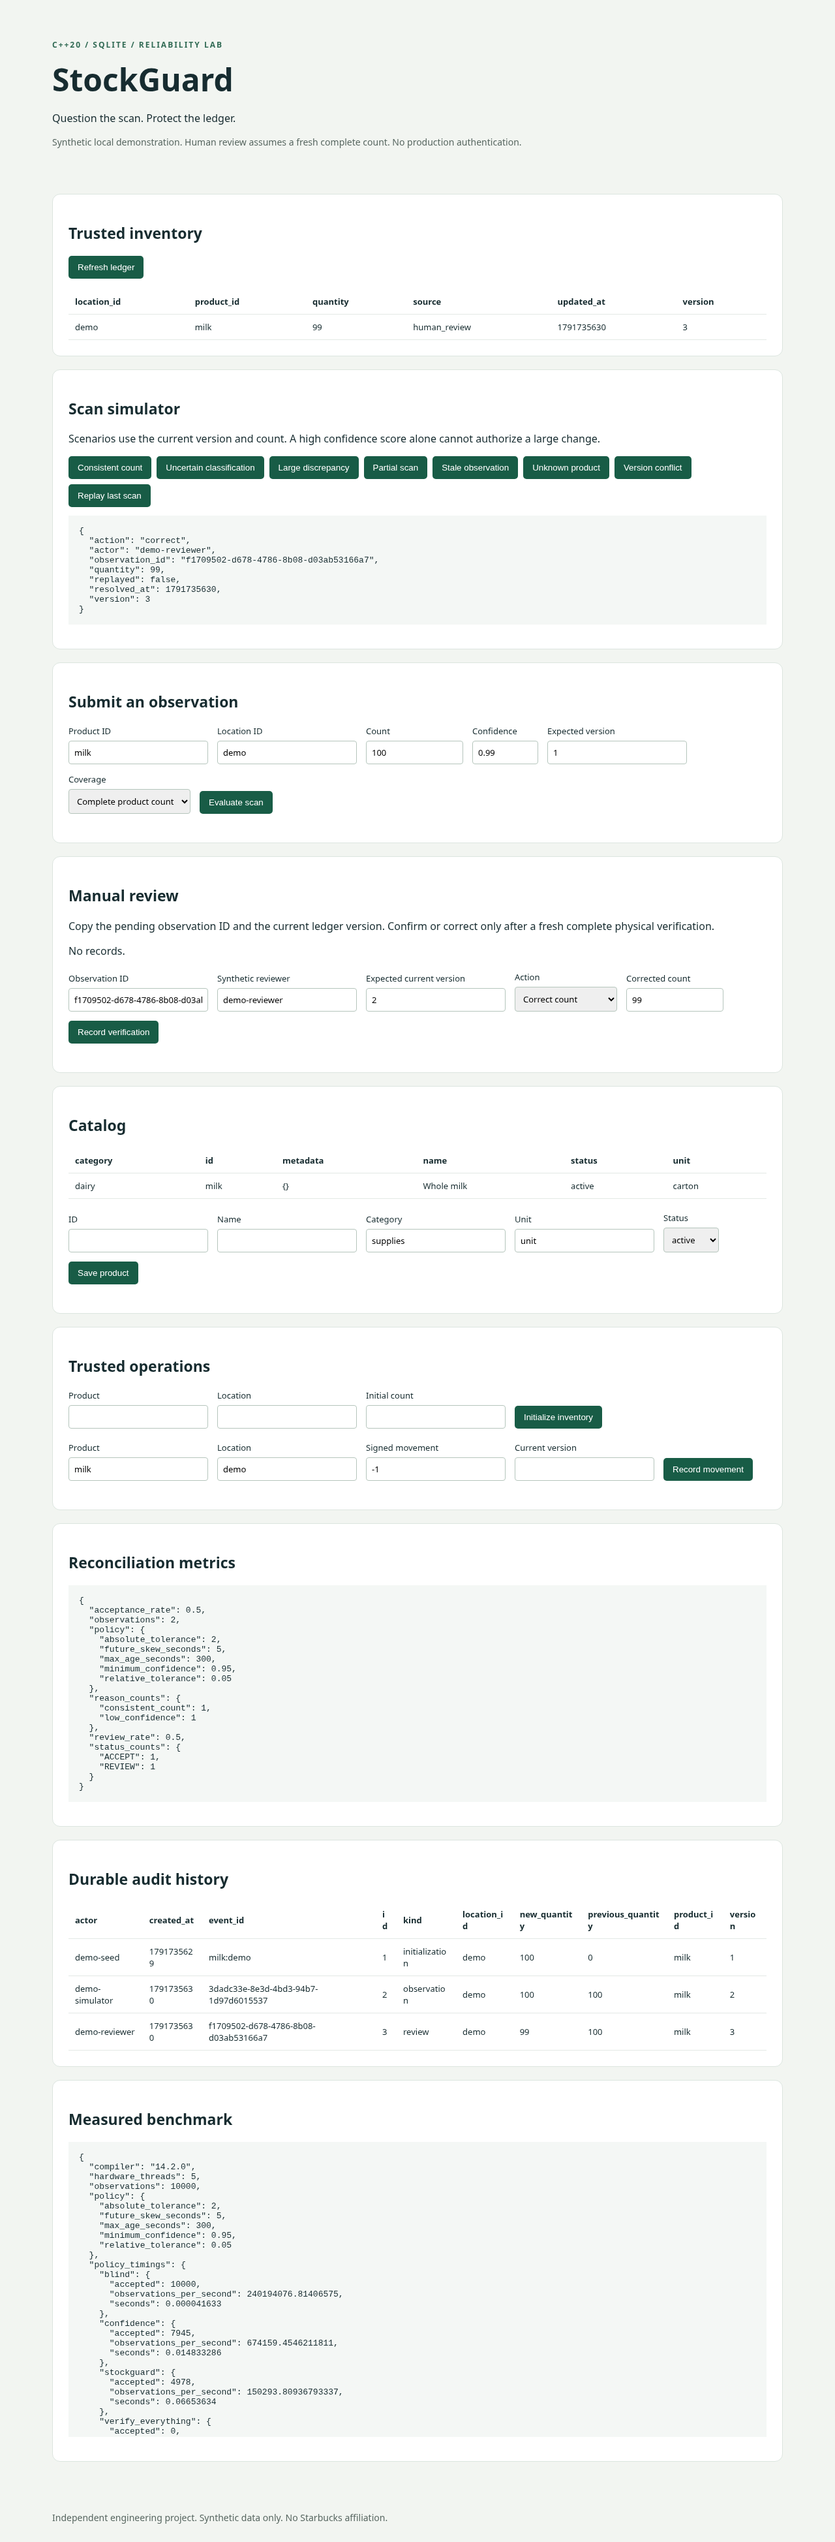
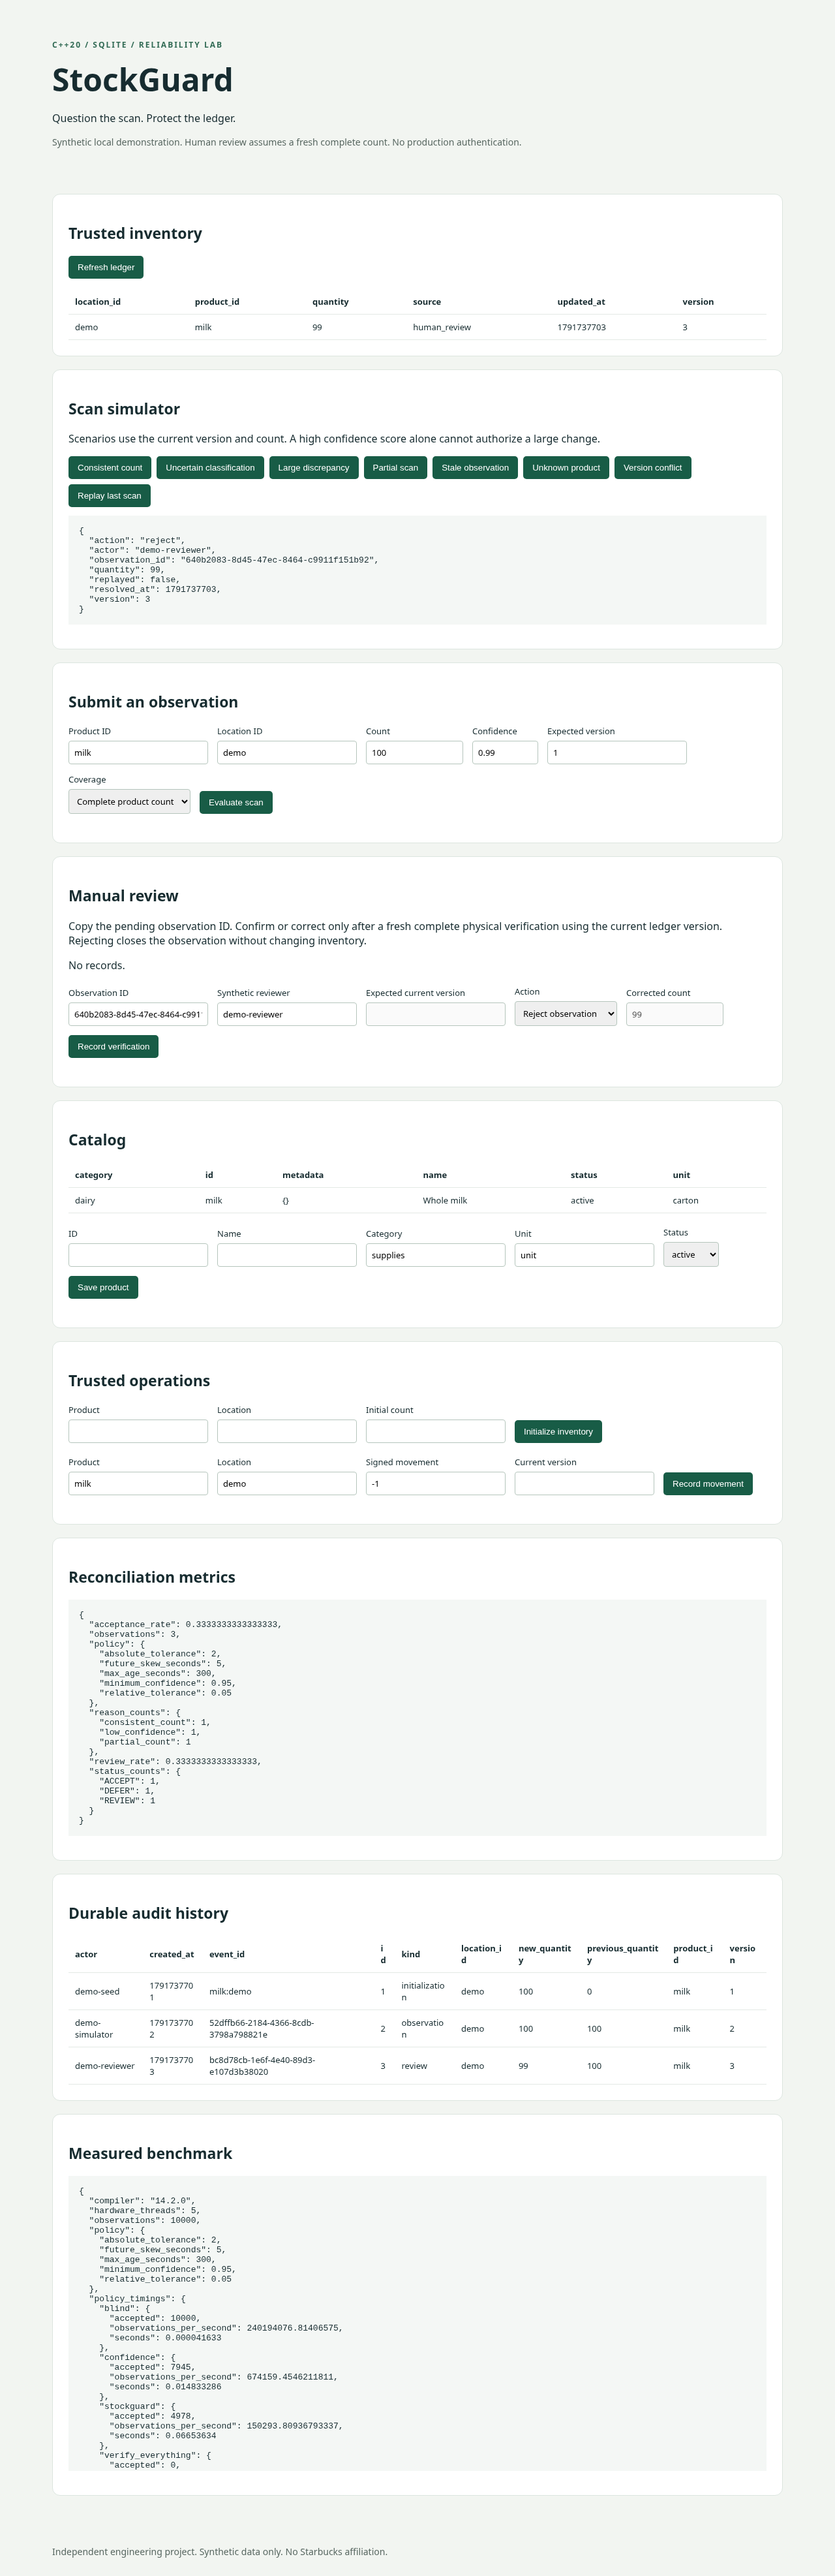
fix: allow pending evidence rejection without inventory prerequisites

diff --git a/dashboard/index.html b/dashboard/index.html
@@ -7,7 +7,7 @@
 <section><h2>Trusted inventory</h2><button id="refresh">Refresh ledger</button><div id="inventory"></div></section>
 <section><h2>Scan simulator</h2><p>Scenarios use the current version and count. A high confidence score alone cannot authorize a large change.</p><div class="actions"><button data-scenario="consistent">Consistent count</button><button data-scenario="low">Uncertain classification</button><button data-scenario="large">Large discrepancy</button><button data-scenario="partial">Partial scan</button><button data-scenario="stale">Stale observation</button><button data-scenario="missing">Unknown product</button><button data-scenario="version">Version conflict</button><button id="replay">Replay last scan</button></div><pre id="decision">Submit a scenario to inspect its decision and evidence.</pre></section>
 <section><h2>Submit an observation</h2><form id="scan"><label>Product ID<input name="product_id" value="milk" required></label><label>Location ID<input name="location_id" value="demo" required></label><label>Count<input name="quantity" type="number" min="0" max="1000000000" value="100" required></label><label>Confidence<input name="confidence" type="number" min="0" max="1" step="0.01" value="0.99" required></label><label>Expected version<input name="expected_version" type="number" min="1" value="1" required></label><label>Coverage<select name="complete"><option value="true">Complete product count</option><option value="false">Partial count</option></select></label><button>Evaluate scan</button></form></section>
-<section><h2>Manual review</h2><p>Copy the pending observation ID and the current ledger version. Confirm or correct only after a fresh complete physical verification.</p><div id="pending"></div><form id="review"><label>Observation ID<input name="observation_id" required></label><label>Synthetic reviewer<input name="actor" value="demo-reviewer" required></label><label>Expected current version<input name="expected_version" type="number" min="1" required></label><label>Action<select name="action"><option value="correct">Correct count</option><option value="confirm">Confirm scan count</option><option value="reject">Reject observation</option></select></label><label>Corrected count<input name="quantity" type="number" min="0" max="1000000000" value="100" required></label><button>Record verification</button></form></section>
+<section><h2>Manual review</h2><p>Copy the pending observation ID. Confirm or correct only after a fresh complete physical verification using the current ledger version. Rejecting closes the observation without changing inventory.</p><div id="pending"></div><form id="review"><label>Observation ID<input name="observation_id" required></label><label>Synthetic reviewer<input name="actor" value="demo-reviewer" required></label><label>Expected current version<input name="expected_version" type="number" min="1" required></label><label>Action<select name="action"><option value="correct">Correct count</option><option value="confirm">Confirm scan count</option><option value="reject">Reject observation</option></select></label><label>Corrected count<input name="quantity" type="number" min="0" max="1000000000" value="100" required></label><button>Record verification</button></form></section>
 <section><h2>Catalog</h2><div id="products"></div><form id="product"><label>ID<input name="id" required></label><label>Name<input name="name" required></label><label>Category<input name="category" value="supplies" required></label><label>Unit<input name="unit" value="unit" required></label><label>Status<select name="status"><option>active</option><option>inactive</option></select></label><button>Save product</button></form></section>
 <section><h2>Trusted operations</h2><form id="initialize"><label>Product<input name="product_id" required></label><label>Location<input name="location_id" required></label><label>Initial count<input name="quantity" type="number" min="0" required></label><button>Initialize inventory</button></form><form id="movement"><label>Product<input name="product_id" value="milk" required></label><label>Location<input name="location_id" value="demo" required></label><label>Signed movement<input name="delta" type="number" value="-1" required></label><label>Current version<input name="expected_version" type="number" min="1" required></label><button>Record movement</button></form></section>
 <section><h2>Reconciliation metrics</h2><pre id="metrics"></pre></section>

diff --git a/dashboard/app.js b/dashboard/app.js
@@ -53,6 +53,16 @@ document.querySelectorAll('[data-scenario]').forEach(button => {button.onclick =
   await ingest(o);
 });});
 byId('replay').onclick = () => run(async () => {if (!lastScan) throw new Error('Submit a scan first.'); await ingest(lastScan);});
+function updateReviewFields() {
+  const form = byId('review');
+  const modifiesInventory = form.elements.action.value !== 'reject';
+  form.elements.expected_version.disabled = !modifiesInventory;
+  form.elements.expected_version.required = modifiesInventory;
+  form.elements.quantity.disabled = form.elements.action.value !== 'correct';
+  form.elements.quantity.required = form.elements.action.value === 'correct';
+}
+byId('review').elements.action.onchange = updateReviewFields;
+updateReviewFields();
 for (const id of ['scan', 'review', 'product', 'initialize', 'movement']) {
   byId(id).onsubmit = event => {event.preventDefault(); run(async () => {
     const data = Object.fromEntries(new FormData(event.target));
@@ -62,7 +72,7 @@ for (const id of ['scan', 'review', 'product', 'initialize', 'movement']) {
       data.observed_at = now(); data.source = 'demo-manual'; await ingest(data);
     } else {
       data.op = id === 'product' ? 'product_put' : id;
-      if (id === 'review') data.verified_at = now();
+      if (id === 'review' && data.action !== 'reject') data.verified_at = now();
       if (id === 'initialize' || id === 'movement') data.actor = 'demo-operator';
       if (id === 'movement') data.id = unique();
       byId('decision').textContent = JSON.stringify(await api(data), null, 2);

diff --git a/tests/store_test.cpp b/tests/store_test.cpp
@@ -416,4 +416,69 @@ TEST_F(Persistence, CatalogUnitCannotReinterpretExistingInventory) {
     EXPECT_EQ(s.execute({{"op", "products"}, {"id", "milk"}})[0]["unit"], "carton");
     EXPECT_EQ(state(s)["quantity"], 100);
 }
+
+TEST_F(Persistence, DeferredWithoutInventoryCanBeRejectedAndReplayedAfterRestart) {
+    Json rejection = {
+        {"op", "review"}, {"observation_id", "o1"}, {"actor", "reviewer"}, {"action", "reject"}};
+    Json saved;
+    {
+        Store s(path, {}, now);
+        seed(s);
+        auto o = observation();
+        o["location_id"] = "uninitialized";
+        EXPECT_EQ(ingest(s, o)["reason"], "missing_inventory");
+        auto confirm = rejection;
+        confirm["action"] = "confirm";
+        confirm["expected_version"] = 1;
+        confirm["verified_at"] = 1000;
+        EXPECT_THROW(s.execute(confirm), Error);
+        saved = s.execute(rejection);
+        EXPECT_TRUE(saved["quantity"].is_null());
+        EXPECT_TRUE(saved["version"].is_null());
+        EXPECT_EQ(s.execute({{"op", "pending"}}).size(), 0);
+        EXPECT_EQ(s.execute({{"op", "audit"}}).size(), 1);
+    }
+    Store restarted(path, {}, now);
+    auto replay = restarted.execute(rejection);
+    EXPECT_EQ(replay["replayed"], true);
+    replay["replayed"] = false;
+    EXPECT_EQ(replay, saved);
+    EXPECT_EQ(restarted.execute({{"op", "reviews"}}).size(), 1);
+}
+TEST_F(Persistence, DeactivatedProductCanRejectPendingObservationWithoutChangingInventory) {
+    Store s(path, {}, now);
+    seed(s);
+    ingest(s, observation("o1", 160));
+    s.execute({{"op", "product_put"},
+               {"id", "milk"},
+               {"name", "Milk"},
+               {"category", "dairy"},
+               {"unit", "carton"},
+               {"status", "inactive"}});
+    EXPECT_THROW(s.execute(correction()), Error);
+    auto result = s.execute(
+        {{"op", "review"}, {"observation_id", "o1"}, {"actor", "reviewer"}, {"action", "reject"}});
+    EXPECT_EQ(result["quantity"], 100);
+    EXPECT_EQ(result["version"], 1);
+    EXPECT_EQ(s.execute({{"op", "pending"}}).size(), 0);
+    EXPECT_EQ(s.execute({{"op", "audit"}}).size(), 1);
+    EXPECT_EQ(state(s)["quantity"], 100);
+    EXPECT_EQ(state(s)["version"], 1);
+}
+TEST_F(Persistence, RejectionDoesNotRequireStaleInventoryVersionAndConflictingActorsRemainSafe) {
+    Store s(path, {}, now);
+    seed(s);
+    ingest(s, observation("o1", 160));
+    ingest(s, observation("o2", 101));
+    auto rejection = correction("reject", 1);
+    auto result = s.execute(rejection);
+    EXPECT_EQ(result["version"], 2);
+    EXPECT_EQ(result["quantity"], 101);
+    EXPECT_EQ(state(s)["quantity"], 101);
+    EXPECT_EQ(state(s)["version"], 2);
+    EXPECT_EQ(s.execute({{"op", "audit"}}).size(), 2);
+    rejection["actor"] = "another-reviewer";
+    EXPECT_THROW(s.execute(rejection), Error);
+    EXPECT_EQ(s.execute({{"op", "reviews"}}).size(), 1);
+}
 } // namespace

diff --git a/src/store.cpp b/src/store.cpp
@@ -186,15 +186,17 @@ Json Store::review(const Json &r) {
     require(query.text(2) == "REVIEW" || query.text(2) == "DEFER", "not_reviewable",
             "Observation is not pending review or deferred");
     const auto o = Observation::parse(Json::parse(query.text(0)));
-    require(active_product(o.product_id), "invalid_product", "Product is missing or inactive");
     const auto state = inventory(o.product_id, o.location_id);
-    require(state.has_value(), "missing_inventory", "Initialize trusted inventory before review");
-    auto expected = integer_field(r, "expected_version", 1, 1'000'000'000'000LL);
-    require(expected == state->version, "version_conflict",
-            "Inventory changed, perform fresh verification");
     const auto now = clock_();
-    Integer next = state->quantity;
+    Integer next = state ? state->quantity : 0;
+    // Rejection resolves evidence only; it never needs permission to update inventory.
     if (action != "reject") {
+        require(active_product(o.product_id), "invalid_product", "Product is missing or inactive");
+        require(state.has_value(), "missing_inventory",
+                "Initialize trusted inventory before review");
+        auto expected = integer_field(r, "expected_version", 1, 1'000'000'000'000LL);
+        require(expected == state->version, "version_conflict",
+                "Inventory changed, perform fresh verification");
         auto verified = integer_field(r, "verified_at", 0, 253402300799LL);
         require(verified >= state->updated_at && verified <= now + policy_.future_skew_seconds &&
                     now - verified <= policy_.max_age_seconds,
@@ -205,13 +207,14 @@ Json Store::review(const Json &r) {
         audit(o.product_id, o.location_id, state->quantity, next, state->version + 1, "review", id,
               actor, now);
     }
-    Json result = {{"observation_id", id},
-                   {"action", action},
-                   {"actor", actor},
-                   {"quantity", next},
-                   {"version", state->version + (action == "reject" ? 0 : 1)},
-                   {"resolved_at", now},
-                   {"replayed", false}};
+    Json result = {
+        {"observation_id", id},
+        {"action", action},
+        {"actor", actor},
+        {"quantity", state ? Json(next) : Json(nullptr)},
+        {"version", state ? Json(state->version + (action == "reject" ? 0 : 1)) : Json(nullptr)},
+        {"resolved_at", now},
+        {"replayed", false}};
     auto insert = database_.prepare("INSERT INTO review_actions VALUES(?,?,?,?,?)");
     insert.bind(1, id);
     insert.bind(2, r.dump());

diff --git a/scripts/smoke.py b/scripts/smoke.py
@@ -51,6 +51,13 @@ with tempfile.TemporaryDirectory(prefix='stockguard-smoke-') as tmp:
         assert api({'op': 'inventory'})[0]['version'] == 3
         assert len(api({'op': 'audit'})) == 3
         assert len(api({'op': 'pending'})) == 0
+        o.update(id='smoke-deferred', scan_id='smoke-deferred-batch', location_id='missing')
+        assert api({'op': 'ingest', 'observation': o})['status'] == 'DEFER'
+        rejected = api({'op': 'review', 'observation_id': 'smoke-deferred',
+                        'actor': 'smoke-reviewer', 'action': 'reject'})
+        assert rejected['quantity'] is None and rejected['version'] is None
+        assert len(api({'op': 'pending'})) == 0
+        assert len(api({'op': 'audit'})) == 3
         for headers, expected in [({'Host': 'evil.example'}, 403),
                                   ({'Content-Type': 'text/plain'}, 415),
                                   ({'Content-Type': 'application/json', 'Origin': 'https://evil.example'}, 403)]:

diff --git a/PROJECT_STATUS.md b/PROJECT_STATUS.md
@@ -13,7 +13,7 @@ fresh-task restoration are not verified. The specific Reuters motivation remains
 - [x] Implemented ID/scan replay protection, conflicts, partial batches and version-checked review.
 - [x] Added queries, pending review, metrics, immutable history and audit/review reporting.
 - [x] Implemented bounded local HTTP adapter and browser scenario/review demonstration.
-- [x] Passed 30 GoogleTests in Debug, Release and ASan/UBSan builds.
+- [x] Passed 33 GoogleTests in Debug, Release and ASan/UBSan builds.
 - [x] Passed four concurrency tests under GCC TSan with one documented upstream WAL suppression.
 - [x] Passed clang-format 19 checks and selected clang-tidy analyzers with no project diagnostics.
 - [x] Passed HTTP functional smoke, JSON request bounds and cross-site request rejection checks.
@@ -38,7 +38,7 @@ fresh-task restoration are not verified. The specific Reuters motivation remains
 
 ## Checks and evidence
 Detailed commands: docs/testing.md. Raw counters and measurements: reports/benchmark-*.json.
-Final suite: 30 passed, zero failed/skipped in Debug, Release and ASan/UBSan. Scoped TSan: 4 passed.
+Final suite: 33 passed, zero failed/skipped in Debug, Release and ASan/UBSan. Scoped TSan: 4 passed.
 HTTP smoke, browser smoke, formatting, selected static analysis and README example passed.
 SQLite is 3.54.0 in final builds. The original unsuppressed GCC TSan run returned nonzero
 on SQLite's documented dirty-read protocol; diagnosis and limit are in ADR 002.
@@ -93,3 +93,10 @@ restore reliably in a new task; remote publication and restoration verification 
 
 The follow-up cloud draft retains existing setup/start instructions and adds the two Python
 reporting guards. The draft save was confirmed. Publication remains unperformed.
+
+## Review resolution fix
+Pending evidence can now be rejected after catalog deactivation, without an inventory record,
+or after the ledger version advances. Confirmation and correction retain their existing checks.
+Three regression tests cover closure, durable replay, unchanged audit totals and conflicting actors.
+The HTTP check and real Chromium workflow verify rejection without a supplied version.
+All 33 tests pass in Debug, Release and ASan/UBSan; scoped TSan, formatting and static analysis pass.

diff --git a/docs/testing.md b/docs/testing.md
@@ -26,9 +26,9 @@ TSan uses the single upstream WAL-header suppression described in
 [ADR 002](decisions/002-sqlite-sanitizers.md). No StockGuard function is suppressed.
 ASan/UBSan instruments the application and compiled SQLite source. Never combine ASan and TSan.
 
-The 30 GoogleTests cover rule boundaries, malformed fields, public API arithmetic safety,
+The 33 GoogleTests cover rule boundaries, malformed fields, public API arithmetic safety,
 SQLite integration, immutable decisions, replay across restarts, scan-key duplication,
-partial batch success, movements, catalog-unit invariants, review correction, conflicting
+partial batch success, movements, catalog-unit invariants, review correction, inventory-independent rejection, durable rejection replay, conflicting
 reviewers, foreign keys, migrations, pagination and ledger/audit chains. Fault injection
 throws after observation insertion, inventory update and before commit. A child exits in
 an uncommitted write and the parent verifies recovery and safe replay. Concurrent tests
@@ -61,6 +61,6 @@ Final local results: Debug 30/30, Release 30/30, ASan/UBSan 30/30, scoped TSan 4
 HTTP smoke, browser workflow, formatting and selected static analysis passed.
 
 Benchmark reporting guards: `python3 -m unittest discover -s tests -p 'test_*.py' -v`.
-Two Python tests reject false successful reporting. They complement the 30 GoogleTests;
+Two Python tests reject false successful reporting. They complement the 33 GoogleTests;
 no GoogleTest was removed or skipped. A real 100-event native run additionally verified
 closed-database audit and inventory totals. The two reporting guards run in the Debug CI job.

diff --git a/docs/api.md b/docs/api.md
@@ -20,7 +20,7 @@ All timestamps are Unix seconds. Inventory and decision clocks are generated by 
 | ingest | observation object |
 | batch | batch_id, observations array |
 | movement | id, product_id, location_id, delta, expected_version, actor |
-| review | observation_id, actor, action, expected_version; verified_at for confirm/correct; quantity for correct |
+| review | observation_id, actor, action; expected_version and verified_at for confirm/correct; quantity for correct |
 | pending | optional limit, offset; includes unresolved REVIEW and DEFER |
 | history | optional limit, offset; immutable original decisions |
 | reviews | optional limit, offset; terminal review actions |
@@ -35,6 +35,11 @@ replayed=true, even after review or a policy change. Different JSON values confl
 field order does not conflict; adding optional fields or changing numeric representation may.
 Alternate IDs with the same scan key are persisted as REJECT duplicate_scan. A deferred
 observation can be manually verified after prerequisites exist, or replaced by a new scan ID.
+
+Rejection closes pending evidence without changing inventory or adding an inventory audit.
+It needs no active product, inventory record or expected_version. Its result reports current
+quantity/version when inventory exists, otherwise both are null. Confirmations and corrections
+still require an active product, existing inventory, matching version and fresh verification.
 
 The loopback dashboard serves `POST /api` with the same request/response schema,
 `GET /health`, `GET /benchmarks`, and fixed static assets. It runs at most 8 active handlers

diff --git a/README.md b/README.md
@@ -16,11 +16,11 @@ own: a model observation should not silently become an authoritative inventory f
 - Complete-count validation with coverage, freshness, version, confidence and discrepancy rules.
 - Durable observation IDs, conflicting-payload rejection and alternate-ID scan replay protection.
 - Partial batches with independent results and transactions.
-- Human confirm, correction and rejection with optimistic version checks.
+- Human confirmation and correction with optimistic version checks; rejection without ledger changes.
 - Immutable original decisions, pending review queries, review history and transactional audit.
 - SQLite WAL, FULL synchronous, foreign keys, schema versioning and RAII rollback.
 - Local browser demo with scenario buttons, review forms, ledger and benchmark results.
-- 30 GoogleTests, fault injection, process-death recovery and concurrent submission tests.
+- 33 GoogleTests, fault injection, process-death recovery and concurrent submission tests.
 
 ```mermaid
 flowchart LR
@@ -114,7 +114,7 @@ A custom policy can be supplied with `--policy config/policy.json`.
 
 ## Evidence and measurements
 
-The final local Debug and Release builds pass all 30 GoogleTests. ASan/UBSan passes the same suite.
+The final local Debug and Release builds pass all 33 GoogleTests. ASan/UBSan passes the same suite.
 Four concurrency tests pass under TSan with one documented upstream SQLite WAL-header
 suppression for GCC; see [ADR 002](docs/decisions/002-sqlite-sanitizers.md). Formatting and
 selected clang-tidy analyzers pass. HTTP and real Chromium browser smoke checks pass.

diff --git a/docs/reconciliation-design.md b/docs/reconciliation-design.md
@@ -18,7 +18,9 @@ confidence, coverage, discrepancy, policy and last update source. Deterministic 
 accepts an explicit clock value. Service callers cannot supply the server decision clock.
 
 A human must perform a fresh complete verification, rather than approve an old scan blindly.
-Review rejects negative corrections, stale verification and changed inventory versions.
+Confirmation and correction reject negative corrections, stale verification and changed inventory versions.
+Rejection only closes evidence, so missing inventory, catalog deactivation or an advanced
+ledger version cannot prevent it. Rejection creates a review record without an inventory audit.
 An initial decision is immutable; a separate review action and audit preserve its history.
 No rule can catch a confidently wrong small count that satisfies all constraints.
 
@@ -36,7 +38,7 @@ flowchart TD
     Rules --> Review[REVIEW: preserve inventory]
     Rules --> Defer[DEFER: preserve inventory]
     Rules --> Invalid[REJECT: preserve inventory]
-    Review --> Human[Fresh human verification with version check]
+    Review --> Human[Confirm or correct with fresh version check, or reject evidence]
     Defer --> Human
     Human --> Resolution[Record review and optional inventory/audit]
 ```
